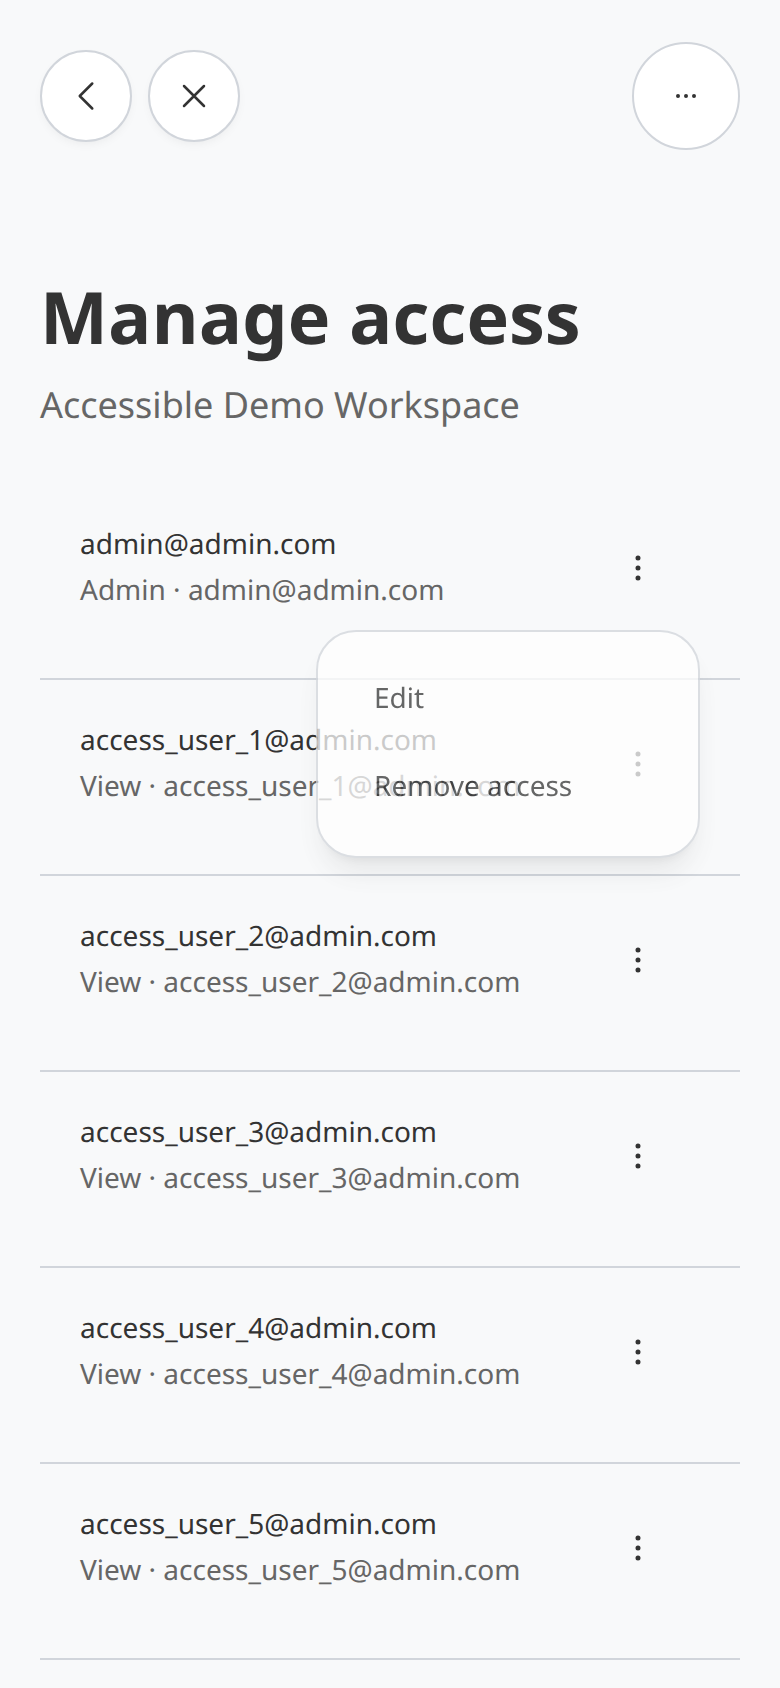
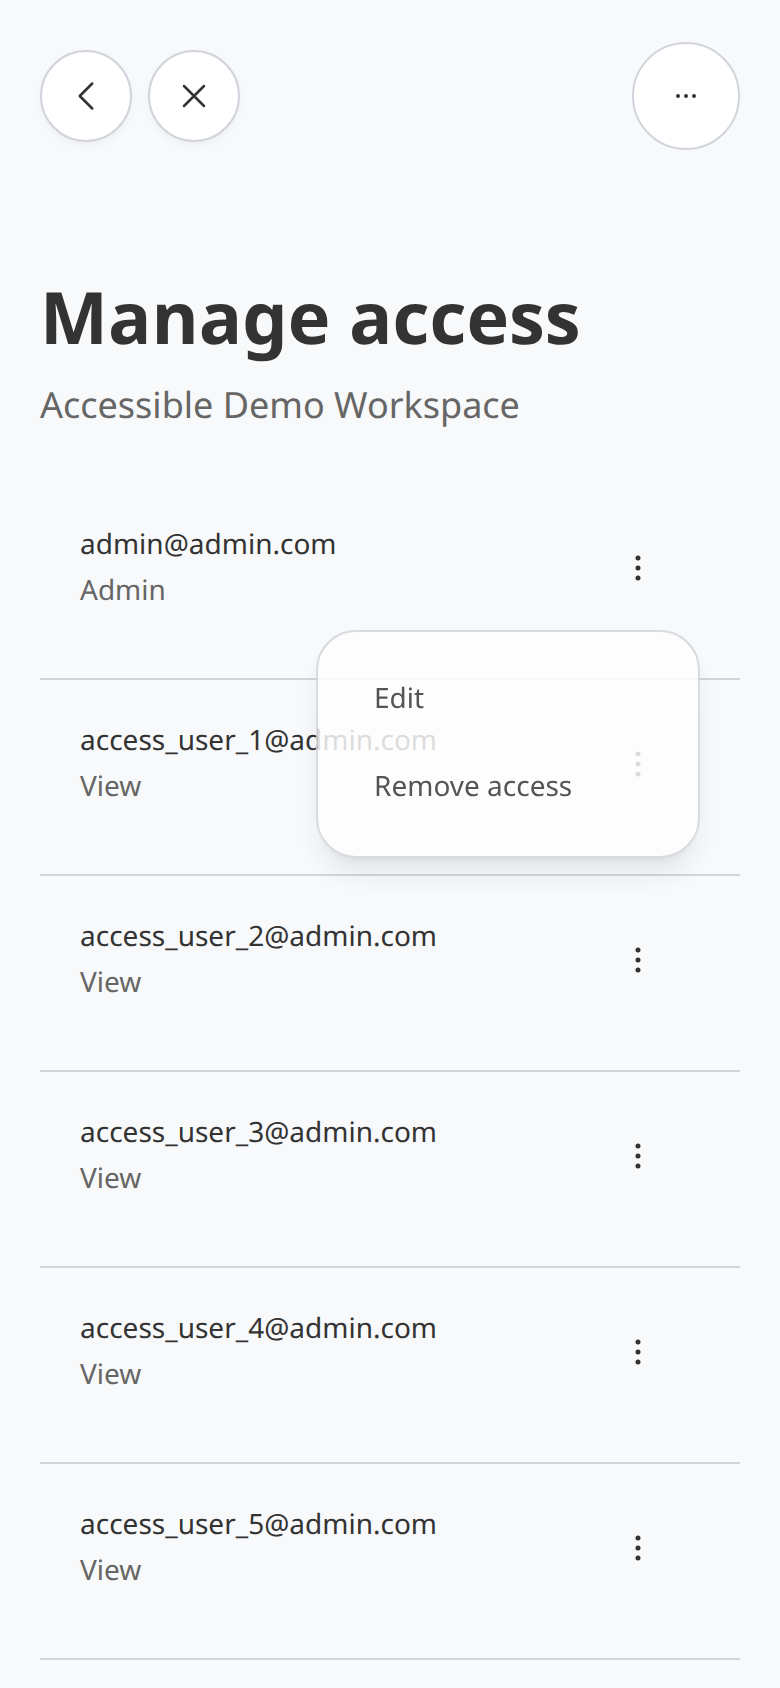
Omit repeated email on manage-access list subtitles
When the person title is already the email, the subtitle is the role
plus pending or inherited parts. A distinct name still shows Role · email.

diff --git a/test/dummy/test/unit/recording_accesses_helper_test.rb b/test/dummy/test/unit/recording_accesses_helper_test.rb
@@ -129,7 +129,7 @@ class RecordingAccessesHelperTest < Minitest::Test
     assert_equal "ada@example.com", title
   end
 
-  def test_access_person_subtitle_joins_role_and_email
+  def test_access_person_subtitle_joins_role_and_email_when_the_title_is_a_name
     subtitle = ViewContext.new.access_person_subtitle(
       {
         actor_label: "Ada Lovelace",
@@ -139,6 +139,18 @@ class RecordingAccessesHelperTest < Minitest::Test
     )
 
     assert_equal "Admin · ada@example.com", subtitle
+  end
+
+  def test_access_person_subtitle_omits_email_when_the_title_is_the_email
+    subtitle = ViewContext.new.access_person_subtitle(
+      {
+        actor_label: "ada@example.com",
+        email: "ada@example.com",
+        direct_role: :admin
+      }
+    )
+
+    assert_equal "Admin", subtitle
   end
 
   def test_access_person_subtitle_includes_pending_invitation_copy
@@ -152,7 +164,7 @@ class RecordingAccessesHelperTest < Minitest::Test
     )
 
     assert_includes subtitle, "View"
-    assert_includes subtitle, "ada@example.com"
+    refute_includes subtitle, "ada@example.com"
     assert_includes subtitle, "Pending invitation"
     assert_includes subtitle, ViewContext.new.accessible_t("manage.expired")
   end

diff --git a/test/dummy/test/integration/recording_accesses_test.rb b/test/dummy/test/integration/recording_accesses_test.rb
@@ -75,7 +75,7 @@ class RecordingAccessesTest < ActionDispatch::IntegrationTest
       assert_includes row.at_css(".fp-list-item-title").text, person.email
       subtitle = row.at_css(".fp-list-item-subtitle").text
       assert_includes subtitle, role
-      assert_includes subtitle, person.email
+      refute_includes subtitle, person.email
     end
 
     remove_form = Nokogiri::HTML(@response.body).at_css(%(form[id="remove-access-form-#{editor_access_recording_id}"]))
@@ -392,7 +392,7 @@ class RecordingAccessesTest < ActionDispatch::IntegrationTest
     invitation_row = people_access_row("missing@example.com")
     assert_includes invitation_row.at_css(".fp-list-item-title").text, "missing@example.com"
     subtitle = invitation_row.at_css(".fp-list-item-subtitle").text
-    assert_includes subtitle, "missing@example.com"
+    refute_includes subtitle, "missing@example.com"
     assert_includes subtitle, "Pending invitation"
     assert_includes subtitle, "View"
     assert_includes @response.body, "Resend"

diff --git a/app/helpers/recording_studio_accessible/recording_accesses_helper.rb b/app/helpers/recording_studio_accessible/recording_accesses_helper.rb
@@ -79,7 +79,7 @@ module RecordingStudioAccessible
     def access_person_subtitle(row, include_actor_type: false)
       [
         access_role_label(access_person_role(row)),
-        access_person_email(row),
+        access_person_subtitle_email(row),
         access_person_type_label(row, include_actor_type: include_actor_type),
         row[:source_label].presence,
         *access_person_invitation_labels(row)
@@ -213,6 +213,13 @@ module RecordingStudioAccessible
 
     def access_person_email(row)
       row[:email].to_s.strip.presence
+    end
+
+    def access_person_subtitle_email(row)
+      email = access_person_email(row)
+      return if email.blank? || access_person_title(row) == email
+
+      email
     end
 
     def access_person_role(row)

diff --git a/README.md b/README.md
@@ -1206,9 +1206,9 @@ That generator:
 - optionally creates a host helper with `recording_access_management_path` and `recording_access_management_link`
 
 Manage access lists each person as a Flatpack list item: name as the title,
-role and email on one wrapping subtitle, and the access actions dropdown as
-the trailing control. Inherited grants use the same list, with the source
-on the subtitle. Screenshots: `docs/screenshots/manage-access-index-390.png`
+role and email on one wrapping subtitle when the name is not the email, and
+the access actions dropdown as the trailing control. Inherited grants use
+the same list, with the source on the subtitle. Screenshots: `docs/screenshots/manage-access-index-390.png`
 (phone), `docs/screenshots/manage-access-index-390-actions.png` (actions
 menu open), and `docs/screenshots/manage-access-index-1280.png` (desktop).
 

diff --git a/CHANGELOG.md b/CHANGELOG.md
@@ -11,7 +11,8 @@ All notable changes to this project will be documented in this file.
   divider) instead of a `FlatPack::Table`. Each grant is one item: name as
   the title, role and email on a wrapping subtitle (pending invitations and
   inherited source stay on that line), and the existing actions dropdown as
-  the trailing control. One markup at every width. Long emails wrap.
+  the trailing control. One markup at every width. Long emails wrap. When
+  the title is already the email, the subtitle omits the email.
 - `+ Access` and `Access requests` both sit in the outlined ButtonGroup
   overflow. A pending count is appended to the Access requests label so it
   still shows in the menu. The group still does not use `collapse: :menu`.
